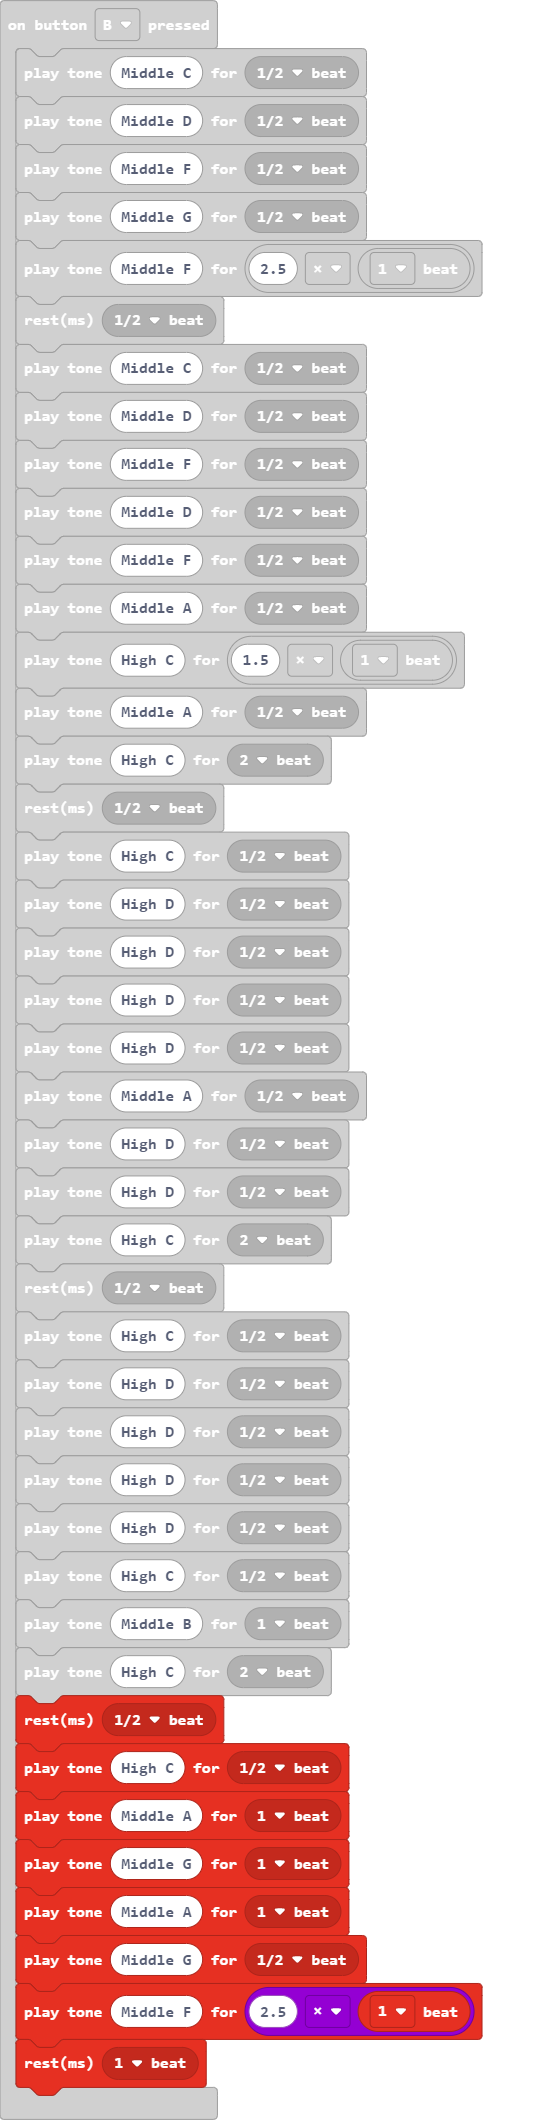
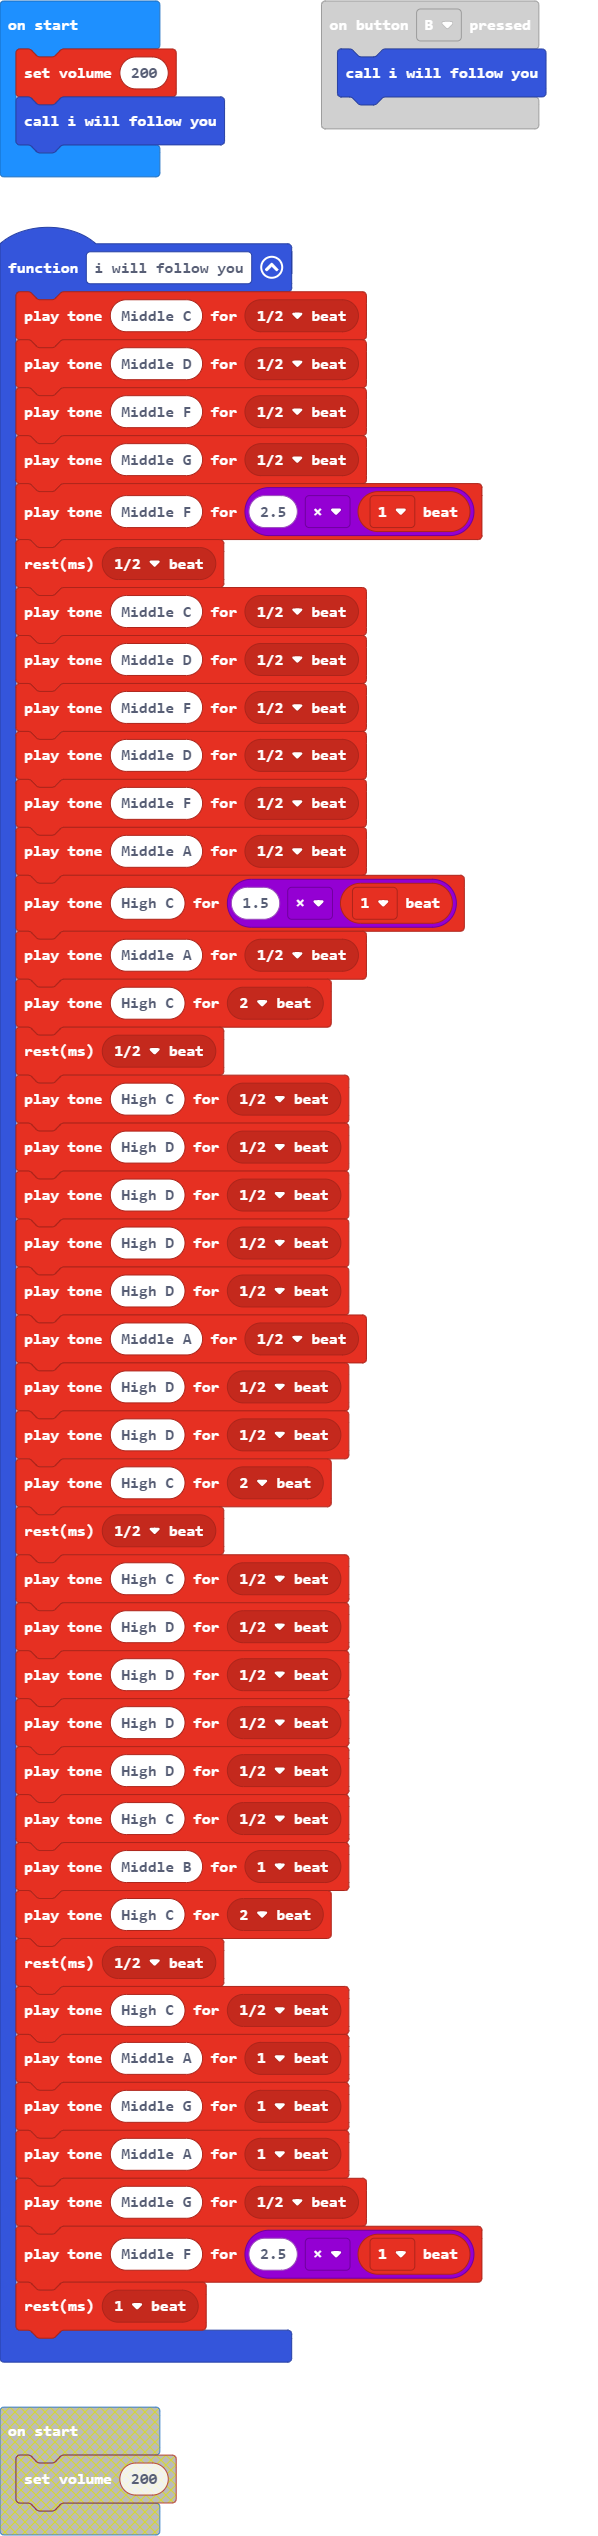
Update main.blocks, main.ts

diff --git a/main.ts b/main.ts
@@ -8,7 +8,7 @@ input.onButtonPressed(Button.A, function () {
 input.onButtonPressed(Button.AB, function () {
     music.startMelody(music.builtInMelody(Melodies.Dadadadum), MelodyOptions.Once)
 })
-input.onButtonPressed(Button.B, function () {
+function i_will_follow_you () {
     music.playTone(262, music.beat(BeatFraction.Half))
     music.playTone(294, music.beat(BeatFraction.Half))
     music.playTone(349, music.beat(BeatFraction.Half))
@@ -51,5 +51,9 @@ input.onButtonPressed(Button.B, function () {
     music.playTone(392, music.beat(BeatFraction.Half))
     music.playTone(349, 2.5 * music.beat(BeatFraction.Whole))
     music.rest(music.beat(BeatFraction.Whole))
+}
+input.onButtonPressed(Button.B, function () {
+    i_will_follow_you()
 })
 music.setVolume(200)
+i_will_follow_you()
